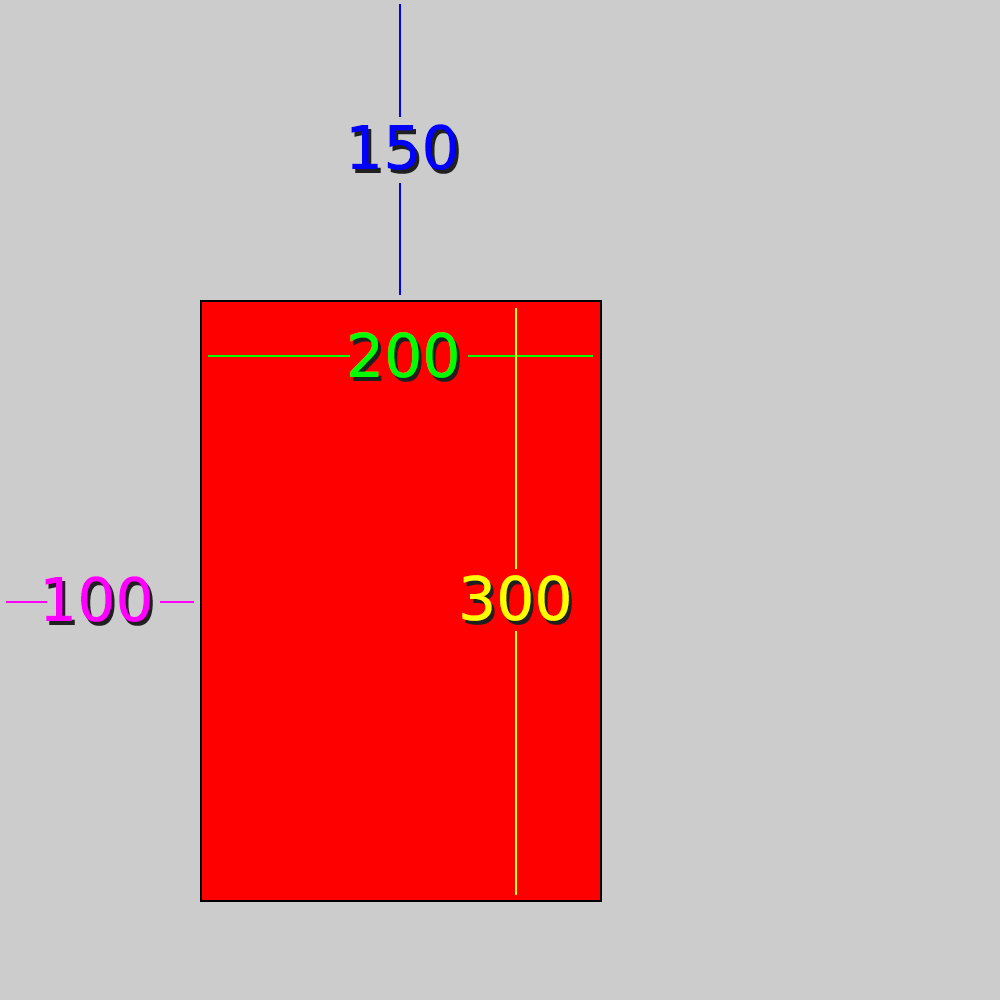
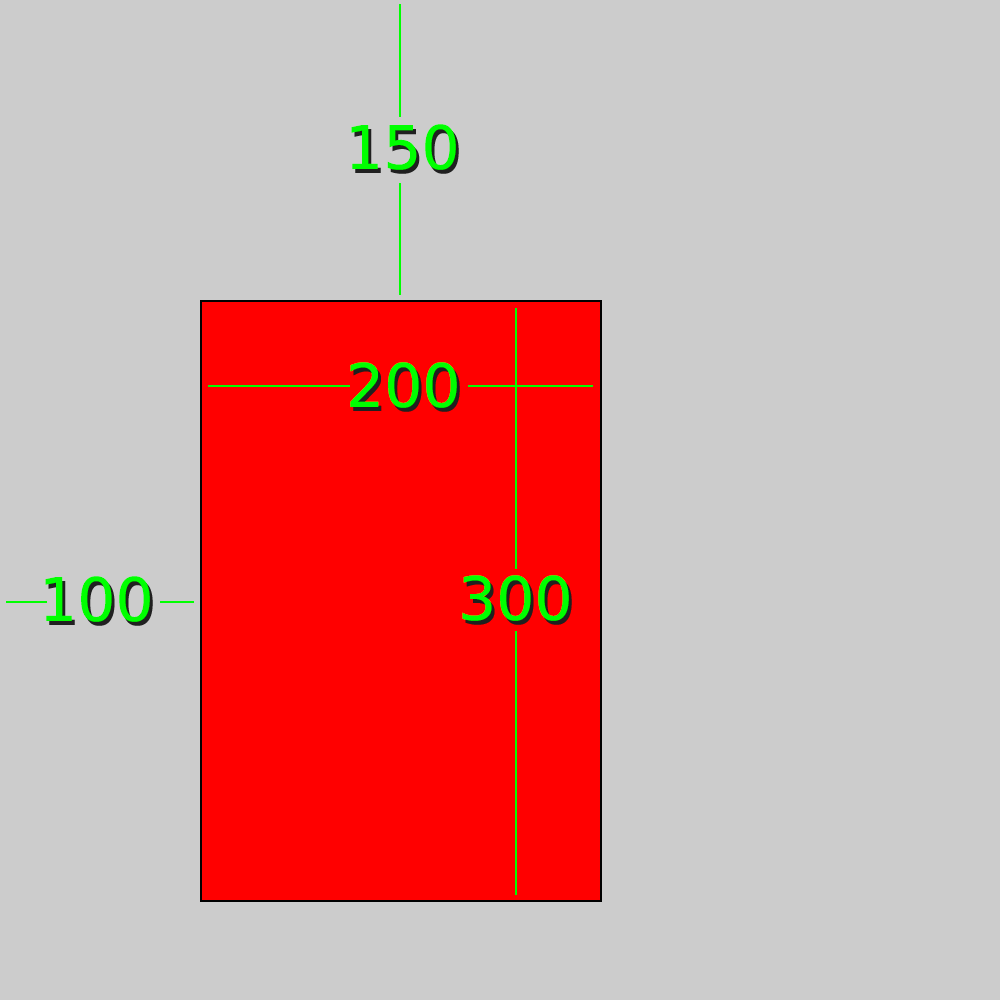
- wip

diff --git a/_posts/2018-06-10-processing.py_in_ten_lessons--01-_getting_started.md b/_posts/2018-06-10-processing.py_in_ten_lessons--01-_getting_started.md
@@ -6,8 +6,8 @@ categories: code processing python
 published: false
 ---
 
-***# covered in this lesson:***  
-*Intro to Processing / Colour / Drawing / Variables / Arithmetic Operators*
+***covered in this lesson:***  
+*intro to processing / colour / drawing / variables / arithmetic operators*
 
 ---
 &nbsp;  
@@ -82,7 +82,7 @@ For a complete list of Processing.py functions and the arguments they require, y
 
 [py.processing.org/reference](http://py.processing.org/reference/)
 
-*Note that the reference also includes many standard Python language structures, keywords, and functions.*
+Note that the reference also includes many standard Python language structures, keywords, and functions.
 
 ### Comments
 
@@ -137,14 +137,16 @@ Note the white-on-red suggestion. Pretty smart, huh? To be honest, the console i
 
 ## Colour
 
-There are various way to specify colour in Processing. To keep things simple, we will stick with hexadecimal values to begin with. If you are familiar with graphics software like Adobe Photoshop, Illustrator, Inkscape, or Gimp, you will have seen these values in your colour mixer.
+There are various way to specify colour in Processing. To keep things simple, we will stick with hexadecimal values to begin with. If you are familiar with graphics software like Adobe Photoshop, Illustrator, Inkscape, or Gimp, you will have seen these values in your colour mixer. Processing includes its own colour selector. To access this, select **Tools > Color Selector...***
 
 <figure>
-  <img src="{{ site.url }}/img/pitl01gs/colour-gimp-mixer.png" />
-  <figcaption>The GIMP colour mixer. The hexadecimal value is in the field labelled "HTML notation".</figcaption>
+  <img src="{{ site.url }}/img/pitl01gs/colour-selector.png" />
+  <figcaption>The Processing colour selector. The hexadecimal value is the one prefixed with a <code>#</code>.</figcaption>
 </figure>
 
-The `fill()` function sets the colour used to fill shapes. It accommodates up to four arguments, depending on the colour system you are using. For hexadecimal, use the 6-digit value prefixed with a `#` and wrapped in quotes:
+Screens rely on 3 primaries to mix colours, namely <span style="color:red">red</span>, <span style="color:lime">green</span>, and <span style="color:blue">blue</span>. A hexadecimal colour value is comprised of 3 pairs, with each pair corresponding to a primary value. In the case of red (or `#FF0000`) the `FF` represents red; the middle `00` green; and right-most `00` blue. For reasons I won't get into here, `FF` is the equivalent of `100%`. Also, remember that you are mixing light, so `#FFFFFF` is white, and `#000000` is black.
+
+The `fill()` function sets the colour used to fill shapes. It accommodates up to four arguments, depending on the colour system you are using. For hexadecimal, use the 6-digit value prefixed with a `#` and wrap it in quotes:
 
 {% highlight py %}
 ...
@@ -152,11 +154,11 @@ The `fill()` function sets the colour used to fill shapes. It accommodates up to
 fill('#FF0000')
 {% endhighlight %}
 
-To see the fill colour in effect, you will add a rectangle. The `rect()` function is used to draw rectangles (or squares) and takes four arguments:
+To see the fill colour in effect, add a rectangle. The `rect()` function is used to draw rectangles (or squares) and takes four arguments:
 
 `rect(x-coordinate, y-coordinate, width, height)`
 
-The x-coordinate values begin at the right-edge of the display windows; the y-coordinate from the top-edge. Add the following code to your "hello_world" sketch; then run it to confirm that the output matches the image below:
+The x-coordinate values begin at the right-edge of the display window; the y-coordinate from the top-edge. Add the following code to your "hello_world" sketch; then run it to confirm that the output matches the image below:
 
 {% highlight py %}
 ...
@@ -167,12 +169,197 @@ rect(100, 150, 200, 300)
 
 <figure>
   <img src="{{ site.url }}/img/pitl01gs/colour-fill-rect.png" />
-  <figcaption><code>rect(100, 150, 200, 300)</code></figcaption>
+  <figcaption>The green lines and numbers represent the <code>rect()</code>'s four arguments.</figcaption>
 </figure>
+
+Processing's `rect()` is one of its many drawing functions. You will be introduced to others further into this lesson.
+
+### Fills and Strokes
+
+When use a `fill()` function, every shape thereafter is filled in the specified colour -- that is, up until the point where you write that another `fill()` line. If you wish to disable the fill altogether, use `noFill()`. In this way, Processing is like painting: you grab a brush and dip it in some paint, then everything you paint is influenced by the brush and colour you last selected. When you wish to paint in a different style or colour, you simply change-out your brush or dip it in different pot.
+
+Add the following code to your "hello_world" file. Note that comments have been added to give you a better idea of what each chunk is doing:
+
+{% highlight py %}
+...
+
+# red rectangles
+fill('#FF0000')
+rect(100,150, 200,300)
+rect(10,15, 20,30)
+
+# orange square
+fill('#FF9900')
+rect(50,100, 150,150)
+
+# fill-less square
+noFill()
+rect(250,100, 150,150)
+{% endhighlight %}
+
+<figure>
+  <img src="{{ site.url }}/img/pitl01gs/colour-fill-additional-rect.png" />
+</figure>
+
+"Stroke" is another term for "outline". There are three stroke functions you are likely to make frequent use of: `stroke()` to change the colour; `strokeWeight()` to change the width; and `noStroke()` to disable the stroke altogether. Like `fill()` an `noFill()`, the stroke functions affect everything below them. For a white stroke, three-pixels in width, add the following code (above the shapes):
+
+{% highlight py %}
+...
+
+stroke('#FFFFFF');
+strokeWeight(3)
+
+# red rectangles
+fill('#FF0000')
+...
+{% endhighlight %}
+
+<figure>
+  <img src="{{ site.url }}/img/pitl01gs/colour-stroke.png" />
+  <figcaption>Placing the stroke functions above the <code>rect()</code> lines affects everything you have drawn.</figcaption>
+</figure>
+
+To specify if stroke corners and tips should rounded or sharp, consult the relevant reference entries:  
+[`strokeCap()`](http://py.processing.org/reference/strokeCap.html)  
+[`strokeJoin()`](http://py.processing.org/reference/strokeJoin.html)
+
+### Background
+
+To change the background colour use the `background()` function.
+
+{% highlight py %}
+...
+rect(250,100, 150,150)
+
+background('#004477')
+{% endhighlight %}
+
+Run the sketch and notice how everything has disappeared, but the whole display window is a flat shade of blue. This because the `background('#004477')` draws over everything before it. This is useful for when you get to animation, but for now, ensure that you place your background function somewhere near the top of your code:
+
+{% highlight py %}
+...
+size(500, 500)
+background('#004477')
+
+...
+{% endhighlight %}
+
+<figure>
+  <img src="{{ site.url }}/img/pitl01gs/colour-blue-background.png" />
+</figure>
+
+
+### Color Mode
+
+You have been using hexadecimal values to represent colour thus far. We will stick to them for the rest of the lesson, but before moving along, here is a quick introduction to some other approaches.
+
+For various reasons, you may wish to express things in something other than hexadecimal. Here is one such a scenario: you wish to write some code that makes the bright red fill darker. Firstly, consider that this shade of red:  
+`fill('#FF0000')`  
+can also be represented as:  
+`fill(255, 0, 0, 0)`  
+As you can probably deduce, `255` is equivalent to `FF` (which itself is equivalent to 100%, as previously explained). The darken make the red half as bright, you can simply subtract `127.5` from `255`. However, trying to subtract `127.5` from `FF` is more tricky because you are now dealing with a mix of hexadecimal and decimal numbers.
+
+<figure>
+  <img src="{{ site.url }}/img/pitl01gs/colour-gimp-mixer.png" />
+  <figcaption>The GIMP colour mixer. The "H" field corresponds to ring of colours around the saturation("S") / brightness("V") triangle.</figcaption>
+</figure>
+
+In the previous scenario, the `colorMode()` was set to `RGB`. In this mode, each value represents one the screen's primary colours. You didn't need to specify this, though, as it is the default mode. There is another mode you can make use of: `HSB`. Once set to HSB, one enters three values representing Hue, Saturation, and Brightness respectively. To mimic the GIMP mixer above, one would use:  
+`colorMode(HSB, 360, 100, 100)`  
+`HSB` represents the mode. `360` represents the range of degrees, and the two `100` arguments a range of 0--100 for saturation and brightness respectively. A red fill would now be written as:  
+`fill(360, 100, 100)`  
+and a dark-greyish purple as:  
+`fill(270, 50, 50)`  
+
+<figure>
+  <img src="{{ site.url }}/img/pitl01gs/colour-gimp-mixer-purple.png" />
+  <figcaption>A dark-greyish purple mixed in HSB.</figcaption>
+</figure>
+
+Shifting along the colour spectrum -- from red to orange to yellow to green, etc. -- is now a matter of adding or subtracting from the H-value.
+
+There will be more on colour in this lessons to come. If you need to find out more before then, consult the relevant reference entries:  
+[`colorMode()`](http://py.processing.org/reference/colorMode.html)  
+[`fill()`](http://py.processing.org/reference/fill.html)
 
 ## Drawing
 
-...
+In this section you will look at a number of drawing functions.
+
+Begin a new sketch (**File > New**) and then save it as "drawing" (**File > Save As**...). Add some code to set things up before proceeding to get the sketch setup:
+
+{% highlight py %}
+size(500, 500)
+background('#004477')
+noFill()
+stroke('#FFFFFF')
+strokeWeight(3)
+{% endhighlight %}
+
+When you run the sketch, an empty blue display window appears. Most of the functions are fairly self-explanatory, so what follows is an example of each function and a link to the reference. Add them to your working sketch and feel free to experiment with the arguments to see how thing change.
+
+### Point
+
+Draws a point, the width of which is determined by the `strokeWeight()`. The arguments represent the x- and y-coordinates respectively.  
+*Reference link:*  [`point()`](http://py.processing.org/reference/point.html)
+
+{% highlight py %}
+point(100, 25)
+point(200, 25)
+point(150, 75)
+{% endhighlight %}
+
+<figure>
+  <img src="{{ site.url }}/img/pitl01gs/drawing-point.png" />
+</figure>
+
+### Triangle
+
+Draws a triangle. The six arguments represent three x/y-coordinate pairs.   
+*Reference link:* [`triangle()`](http://py.processing.org/reference/triangle.html)
+
+{% highlight py %}
+triangle(100,25, 200,25, 150,75)
+{% endhighlight %}
+
+<figure>
+  <img src="{{ site.url }}/img/pitl01gs/drawing-triangle.png" />
+</figure>
+
+### Ellipse
+
+Draws an ellipse, with the x/y-coordinate as its centre-point. The first pair of arguments represent the x/y coordinates; the second are the width and height.  
+*Reference link:* [`ellipse()`](http://py.processing.org/reference/ellipse.html)
+
+{% highlight py %}
+ellipse(100,100, 100,50)
+{% endhighlight %}
+
+<figure>
+  <img src="{{ site.url }}/img/pitl01gs/drawing-ellipse.png" />
+</figure>
+
+### Quad
+
+Draws a quadrilateral (a for-sided polygon). The eight arguments represent four x/y-coordinate pairs.  
+*Reference link:* [`quad()`](http://py.processing.org/reference/quad.html)
+
+{% highlight py %}
+quad(250,250, 350,300, 380,400, 260,380)
+{% endhighlight %}
+
+<figure>
+  <img src="{{ site.url }}/img/pitl01gs/drawing-quad.png" />
+</figure>
+
+
+### Ellipse and Rect Modes
+
+You have seen how rectangles are drawn from the top-left corner, and ellipses are centred on the x/y coordinate. You can change this behaviour using the following functions:  
+[`ellipseMode()`](http://py.processing.org/reference/ellipseMode.html)  
+[`rectMode()`](http://py.processing.org/reference/rectMode.html)
+
+
 
 ## Variables
 
